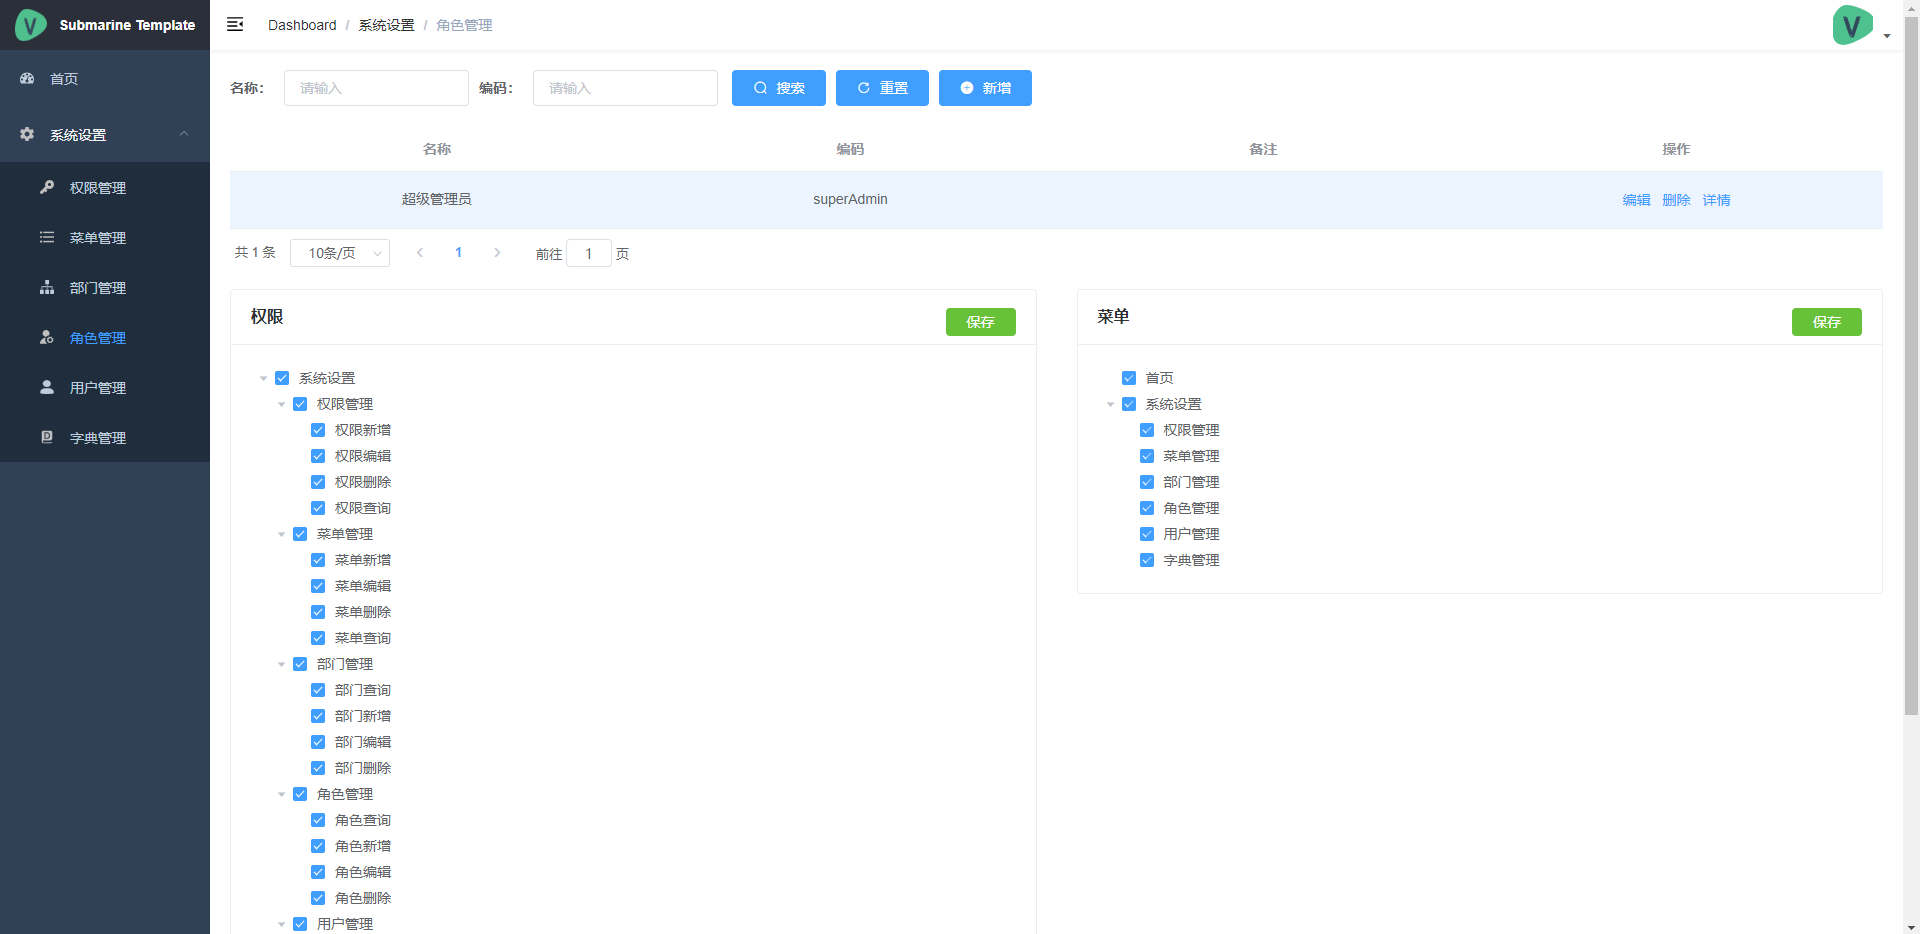
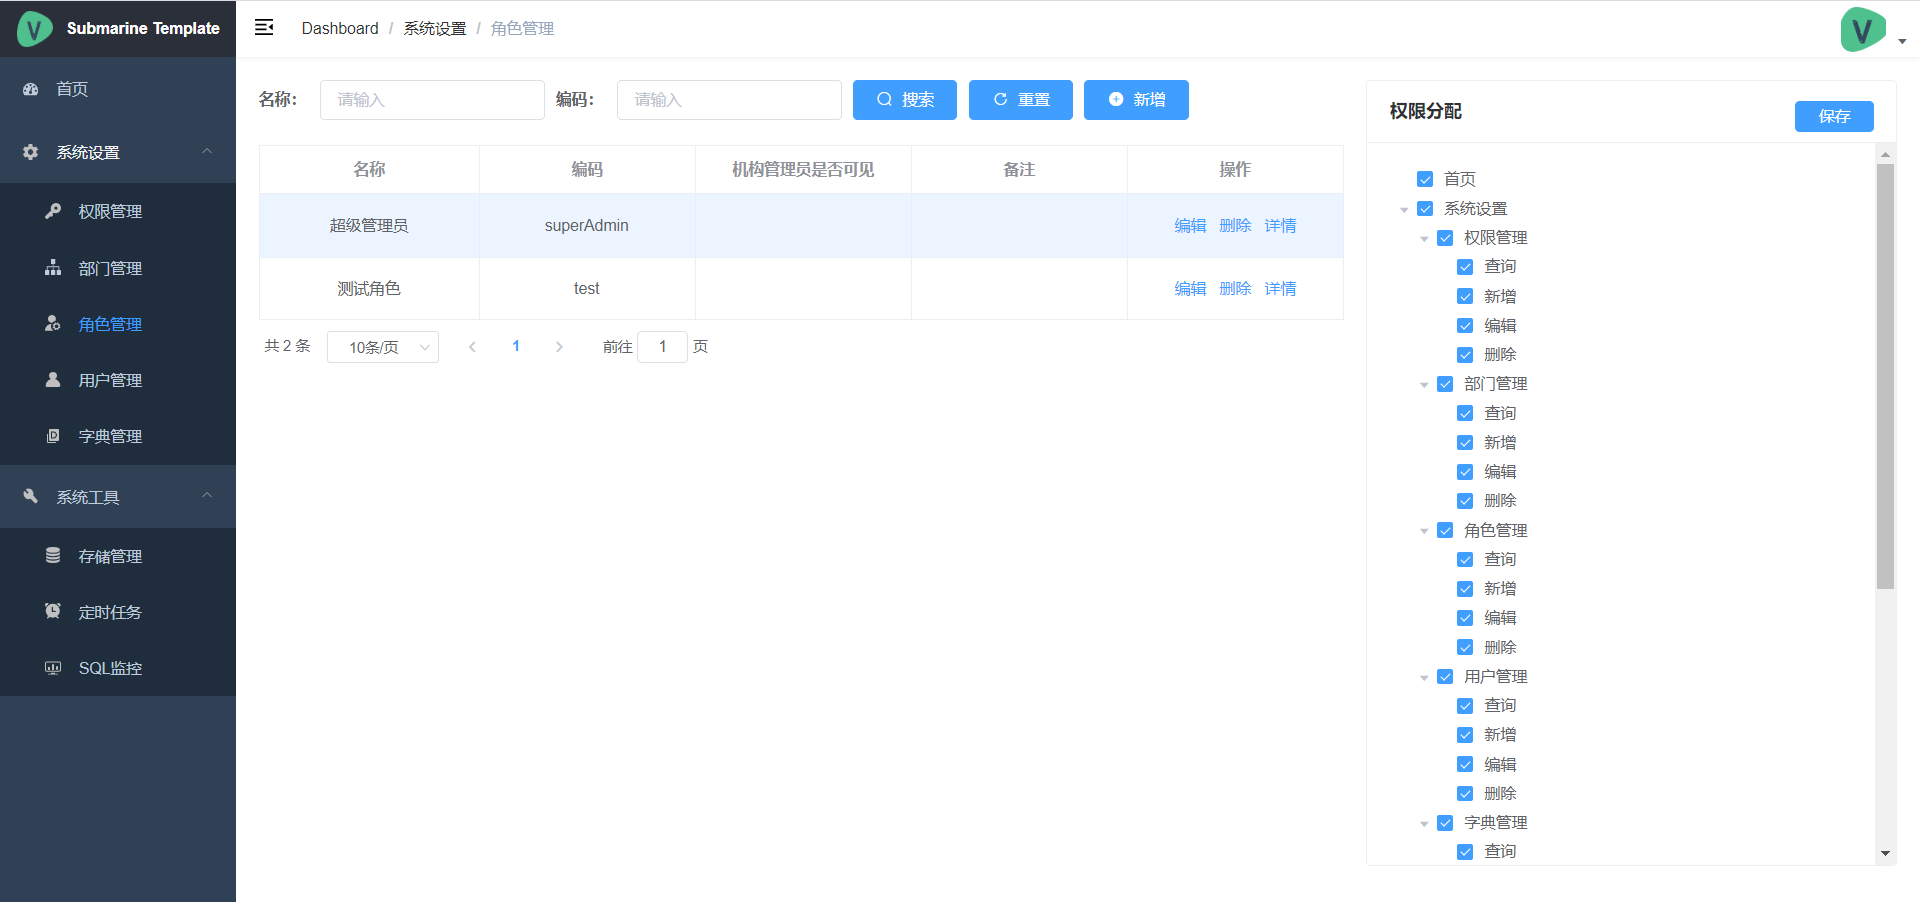
readme

diff --git a/src/views/system/tool/quartzJob/log.vue b/src/views/system/tool/quartzJob/log.vue
@@ -1,8 +1,9 @@
 <template>
-  <div v-loading="loading" class="app-container">
+  <div class="app-container">
     <el-dialog title="日志" :visible.sync="dialogVisible" width="1220px" :close-on-click-modal="false" @closed="$emit('close')">
       <x-table
         v-model="searchData"
+        v-loading="loading"
         :config="tableConfig"
         :data="tableData"
         :page.sync="page"

diff --git a/README.md b/README.md
@@ -64,24 +64,35 @@ npm run lint -- --fix
 
 ## 功能
 
-实现了权限，菜单，机构，角色，用户等页面
+- 权限管理
+- 机构管理
+- 角色管理
+- 用户管理
+- 字典管理
+- 存储管理
+- 定时任务
+- SQL监控
 
 ## 前端预览
 
 <table>
     <tr>
         <td><img src="https://raw.githubusercontent.com/GoldSubmarine/submarine-admin-frontend/master/doc/images/permission.png"/></td>
-        <td><img src="https://raw.githubusercontent.com/GoldSubmarine/submarine-admin-frontend/master/doc/images/menu.png"/></td>
-    </tr>
-    <tr>
         <td><img src="https://raw.githubusercontent.com/GoldSubmarine/submarine-admin-frontend/master/doc/images/dept.png"/></td>
-        <td><img src="https://raw.githubusercontent.com/GoldSubmarine/submarine-admin-frontend/master/doc/images/role.png"/></td>
     </tr>
     <tr>
+        <td><img src="https://raw.githubusercontent.com/GoldSubmarine/submarine-admin-frontend/master/doc/images/role.png"/></td>
         <td><img src="https://raw.githubusercontent.com/GoldSubmarine/submarine-admin-frontend/master/doc/images/user.png"/></td>
+    </tr>
+    <tr>
         <td><img src="https://raw.githubusercontent.com/GoldSubmarine/submarine-admin-frontend/master/doc/images/dictionary.png"/></td>
+        <td><img src="https://raw.githubusercontent.com/GoldSubmarine/submarine-admin-frontend/master/doc/images/fileStore.png"/></td>
     </tr>
     <tr>   
+        <td><img src="https://raw.githubusercontent.com/GoldSubmarine/submarine-admin-frontend/master/doc/images/schedule.png"/></td>
+        <td><img src="https://raw.githubusercontent.com/GoldSubmarine/submarine-admin-frontend/master/doc/images/monitorSql.png"/></td>
+    </tr>
+    <tr>
         <td><img src="https://raw.githubusercontent.com/GoldSubmarine/submarine-admin-frontend/master/doc/images/personal.png"/></td>
     </tr>
 </table>
